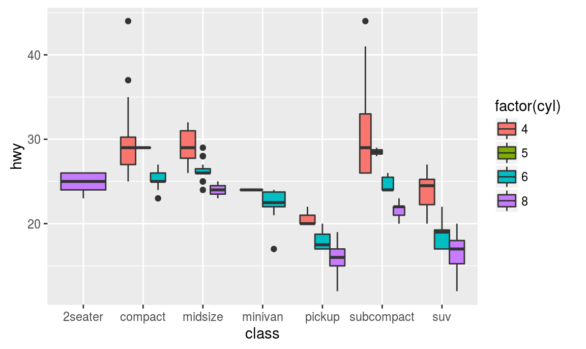
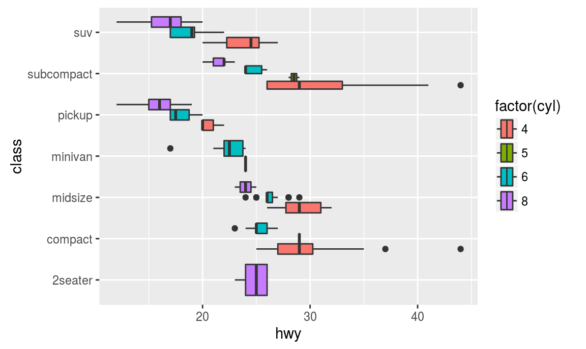
added goemnet

diff --git a/ggiraph.html b/ggiraph.html
@@ -129,6 +129,11 @@ img {
           <h5 class="list-group-item-heading">ggpmisc</h5>
           <p class="list-group-item-text">Miscellaneous extensions to ggplot2</p>
         </a>
+        
+        <a href="geomnet.html" class="list-group-item">
+          <h5 class="list-group-item-heading">geomnet</h5>
+          <p class="list-group-item-text">Network visualizations in ggplot2</p>
+        </a>
 
       </div> <!-- list-group -->
 
@@ -161,8 +166,8 @@ gg_point_1 &lt;- ggplot(dataset, aes(x = disp, y = qsec,
 
 # htmlwidget call
 ggiraph(code = {print(gg_point_1 + mytheme_main)}, width = 7, height = 6)</code></pre>
-<p><div id="htmlwidget-2092" style="width:504px;height:432px;" class="ggiraph"></div>
[1 lines of base64/hex data omitted]
+<p><div id="htmlwidget-5581" style="width:504px;height:432px;" class="ggiraph"></div>
[1 lines of base64/hex data omitted]
 </div> <!-- col-sm-8 -->
 
   </div> <!-- row -->

diff --git a/index.html b/index.html
@@ -20,7 +20,9 @@
 <script src="libs/bootstrap-3.3.1/shim/respond.min.js"></script>
 
 <!-- Styles for this site -->
+<meta name="viewport" content="width=device-width, initial-scale=1">
 <link href="css/styles.css" rel="stylesheet">
+
 
 <!-- Polyfill JS -->
 <script src="js/polyfill.js"></script>
@@ -78,39 +80,6 @@ img {
       </ul>
   </nav>
 </div>
-
-<div class="showcase-header hidden">
-
-  <div id = "showcase-intro">
-    ggplot2 now has an official extension mechanism. This means that others can now easily create their own stats, geoms and positions, and provide them in other packages. This should allow the ggplot2 community to flourish, even as less development work happens in ggplot2 itself. This page showcases these extensions.
-  </div>
-
-  <div class="row">
-
-    <div class="col-sm-4">
-      <div class="list-group">
-        <a href="ggiraph.html" class="list-group-item">
-          <h5 class="list-group-item-heading">ggiraph</h5>
-          <p class="list-group-item-text">Make ggplot interactive</p>
-        </a>
-        <a href="ggstance.html" class="list-group-item">
-          <h5 class="list-group-item-heading">ggstance</h5>
-          <p class="list-group-item-text">Horizontal versions of ggplot2 geoms</p>
-        </a>
-
-      </div> <!-- list-group -->
-
-    </div> <!-- col-sm-4 -->
-
-    <div class="col-sm-8" id="showcase-body">
-
-    </div> <!-- col-sm-8 -->
-
-  </div> <!-- row -->
-
-</div> <!-- showcase-header -->
-
-<div id="page-body"></div>
 
 <!--/html_preserve-->
 
@@ -213,9 +182,9 @@ $(document).on("slide.bs.carousel", "#widget-carousel", function(e) {
 
       <div class="col-sm-5 benefits">
         <div class="hidden-xs">&nbsp;</div>
-        <h4>A List of ggplot2 Extensions</h4>
+        <h4>A List of gglot2 extensions</h4>
         <ul>
-          <li>This site tracks and lists <strong>ggplot2</strong> extenstions developed by R users in the community.</li>
+          <li>This site tracks and lists <strong>gglot2</strong> extenstions developed by R users in the community.</li>
           <li>The aim is to make it easy for R users to find developed extensions.</li>
         </ul>
       </div>
@@ -277,6 +246,12 @@ $(document).on("slide.bs.carousel", "#widget-carousel", function(e) {
         <div class="col-xs-6 col-sm-3">
           <a href="ggstance.html"><img src="images/carousel-ggstance.png"/></a>
         </div>
+        <div class="col-xs-6 col-sm-3">
+          <a href="ggalt.html"><img src="images/carousel-ggalt.png"/></a>
+        </div>
+        <div class="col-xs-6 col-sm-3">
+          <a href="ggforce.html"><img src="images/carousel-ggforce.png"/></a>
+        </div>
       </div>
     </div>
   </div>
@@ -292,10 +267,10 @@ $(document).on("slide.bs.carousel", "#widget-carousel", function(e) {
   <h3>Submit your extension</h3>
   <div class="row">
     <div class="col-sm-9">
-      <p>Submit your ggplot2 extension so that other R users can easily find them. Either create an issue or a pull request on github.</p>
+      <p>Submit your ggplot2 extension so that other R users can easily find. Do so by just filing an issue on github or creating a pull request.</p>
     </div>
     <div class="col-sm-3">
-      <p><a class="btn btn-primary" href="https://github.com/ggplot2-exts/ggplot2-exts.github.io" target="_blank" role="button">Submit your Extension &raquo;</a></p>
+      <p><a class="btn btn-primary" href="https://github.com/ggplot2-exts/ggplot2-exts.github.io/tree/dev" target="_blank" role="button">Submit your Extension &raquo;</a></p>
     </div>
   </div>
 </div>

diff --git a/geomnet.html b/geomnet.html
@@ -10,7 +10,7 @@
 
 
 
-<title>ggplot2 extensions: ggalt</title>
+<title>ggplot2 extensions: geomnet</title>
 
 <script src="libs/jquery-1.11.0/jquery.min.js"></script>
 <meta name="viewport" content="width=device-width, initial-scale=1" />
@@ -135,34 +135,20 @@ img {
 
     </div> <!-- col-sm-4 -->
 
-    <div id="ggalt" class="col-sm-8">
-<h3>ggalt</h3>
-<p><a href="https://github.com/hrbrmstr/ggalt" class="uri">https://github.com/hrbrmstr/ggalt</a></p>
-<p>A compendium of ‘geoms’, ‘coords’ and ‘stats’ for ‘ggplot2’, including splines, 1d and 2d densities, univariate average shifted histograms and a new map coordinate system based on the ‘PROJ.4’-library..</p>
-<pre class="r"><code># Example from https://github.com/hrbrmstr/ggalt
+    <div id="geomnet" class="col-sm-8">
+<h3>geomnet</h3>
+<p><a href="https://github.com/sctyner/geomnet" class="uri">https://github.com/sctyner/geomnet</a></p>
+<p>geomnet implements network visualizations in ggplot2 via geom_net.</p>
+<pre class="r"><code># Example from https://github.com/sctyner/geomnet
 library(ggplot2)
-library(gridExtra)
-library(ggalt)
+library(geomnet)
 
-set.seed(1492)
-dat &lt;- data.frame(x=c(1:10, 1:10, 1:10),
-                  y=c(sample(15:30, 10), 2*sample(15:30, 10), 3*sample(15:30, 10)),
-                  group=factor(c(rep(1, 10), rep(2, 10), rep(3, 10)))
-)
+data(blood)
 
-ggplot(dat, aes(x, y, group=group, color=factor(group))) +
-  geom_point(color=&quot;black&quot;) +
-  geom_smooth(se=FALSE, linetype=&quot;dashed&quot;, size=0.5) +
-  geom_xspline(spline_shape=-0.4, size=0.5)</code></pre>
-<p><img src="ggalt_files/figure-html/unnamed-chunk-1-1.png" title="" alt="" width="576" /></p>
-<pre class="r"><code>## Alternate 2D density plots
-
-ggplot(faithful, aes(x = eruptions, y = waiting)) +
-       geom_point() +
-       xlim(0.5, 6) +
-       ylim(40, 110) + 
-  geom_bkde2d(bandwidth=c(0.5, 4))</code></pre>
-<p><img src="ggalt_files/figure-html/unnamed-chunk-1-2.png" title="" alt="" width="576" /></p>
+ggplot(data = blood$edges, aes(from_id = from, to_id = to)) +
+  geom_net(vertices=blood$vertices, aes(colour=..type..)) + 
+  theme_net()</code></pre>
+<p><img src="geomnet_files/figure-html/unnamed-chunk-1-1.png" title="" alt="" width="576" /></p>
 </div> <!-- col-sm-8 -->
 
   </div> <!-- row -->

diff --git a/ggstance.html b/ggstance.html
@@ -125,6 +125,11 @@ img {
           <h5 class="list-group-item-heading">ggpmisc</h5>
           <p class="list-group-item-text">Miscellaneous extensions to ggplot2</p>
         </a>
+        
+        <a href="geomnet.html" class="list-group-item">
+          <h5 class="list-group-item-heading">geomnet</h5>
+          <p class="list-group-item-text">Network visualizations in ggplot2</p>
+        </a>
 
       </div> <!-- list-group -->
 
@@ -147,6 +152,11 @@ ggplot(mpg, aes(class, hwy, fill = factor(cyl))) +
   geom_boxplot() +
   coord_flip()</code></pre>
 <p><img src="ggstance_files/figure-html/unnamed-chunk-1-2.png" title="" alt="" width="576" /></p>
+<pre class="r"><code># In ggstance, you supply aesthetics in their natural order:
+# Horizontal with ggstance
+ggplot(mpg, aes(hwy, class, fill = factor(cyl))) +
+  geom_boxploth()</code></pre>
+<p><img src="ggstance_files/figure-html/unnamed-chunk-1-3.png" title="" alt="" width="576" /></p>
 </div> <!-- col-sm-8 -->
 
   </div> <!-- row -->
@@ -157,6 +167,8 @@ ggplot(mpg, aes(class, hwy, fill = factor(cyl))) +
 
 
 <!--/html_preserve-->
+
+
 
 
 

diff --git a/ggforce.html b/ggforce.html
@@ -125,6 +125,11 @@ img {
           <h5 class="list-group-item-heading">ggpmisc</h5>
           <p class="list-group-item-text">Miscellaneous extensions to ggplot2</p>
         </a>
+        
+        <a href="geomnet.html" class="list-group-item">
+          <h5 class="list-group-item-heading">geomnet</h5>
+          <p class="list-group-item-text">Network visualizations in ggplot2</p>
+        </a>
 
       </div> <!-- list-group -->
 
@@ -174,6 +179,8 @@ ggplot() + geom_circle(aes(x0=x0, y0=y0, r=r, fill=r), data=circles)</code></pre
 
 
 <!--/html_preserve-->
+
+
 
 
 

diff --git a/ggpmisc.html b/ggpmisc.html
@@ -125,6 +125,11 @@ img {
           <h5 class="list-group-item-heading">ggpmisc</h5>
           <p class="list-group-item-text">Miscellaneous extensions to ggplot2</p>
         </a>
+        
+        <a href="geomnet.html" class="list-group-item">
+          <h5 class="list-group-item-heading">geomnet</h5>
+          <p class="list-group-item-text">Network visualizations in ggplot2</p>
+        </a>
 
       </div> <!-- list-group -->
 
@@ -165,6 +170,8 @@ ggplot(my.data, aes(x, y2, colour = group)) +
 
 
 <!--/html_preserve-->
+
+
 
 
 

diff --git a/ggrepel.html b/ggrepel.html
@@ -125,6 +125,11 @@ img {
           <h5 class="list-group-item-heading">ggpmisc</h5>
           <p class="list-group-item-text">Miscellaneous extensions to ggplot2</p>
         </a>
+        
+        <a href="geomnet.html" class="list-group-item">
+          <h5 class="list-group-item-heading">geomnet</h5>
+          <p class="list-group-item-text">Network visualizations in ggplot2</p>
+        </a>
 
       </div> <!-- list-group -->
 
@@ -167,7 +172,6 @@ ggplot(dat) +
 
 
 <!--/html_preserve-->
-
 
 
 

diff --git a/ggraph.html b/ggraph.html
@@ -125,6 +125,11 @@ img {
           <h5 class="list-group-item-heading">ggpmisc</h5>
           <p class="list-group-item-text">Miscellaneous extensions to ggplot2</p>
         </a>
+        
+        <a href="geomnet.html" class="list-group-item">
+          <h5 class="list-group-item-heading">geomnet</h5>
+          <p class="list-group-item-text">Network visualizations in ggplot2</p>
+        </a>
 
       </div> <!-- list-group -->
 

diff --git a/include/before_body.html b/include/before_body.html
@@ -55,6 +55,11 @@
           <h5 class="list-group-item-heading">ggpmisc</h5>
           <p class="list-group-item-text">Miscellaneous extensions to ggplot2</p>
         </a>
+        
+        <a href="geomnet.html" class="list-group-item">
+          <h5 class="list-group-item-heading">geomnet</h5>
+          <p class="list-group-item-text">Network visualizations in ggplot2</p>
+        </a>
 
       </div> <!-- list-group -->
 
